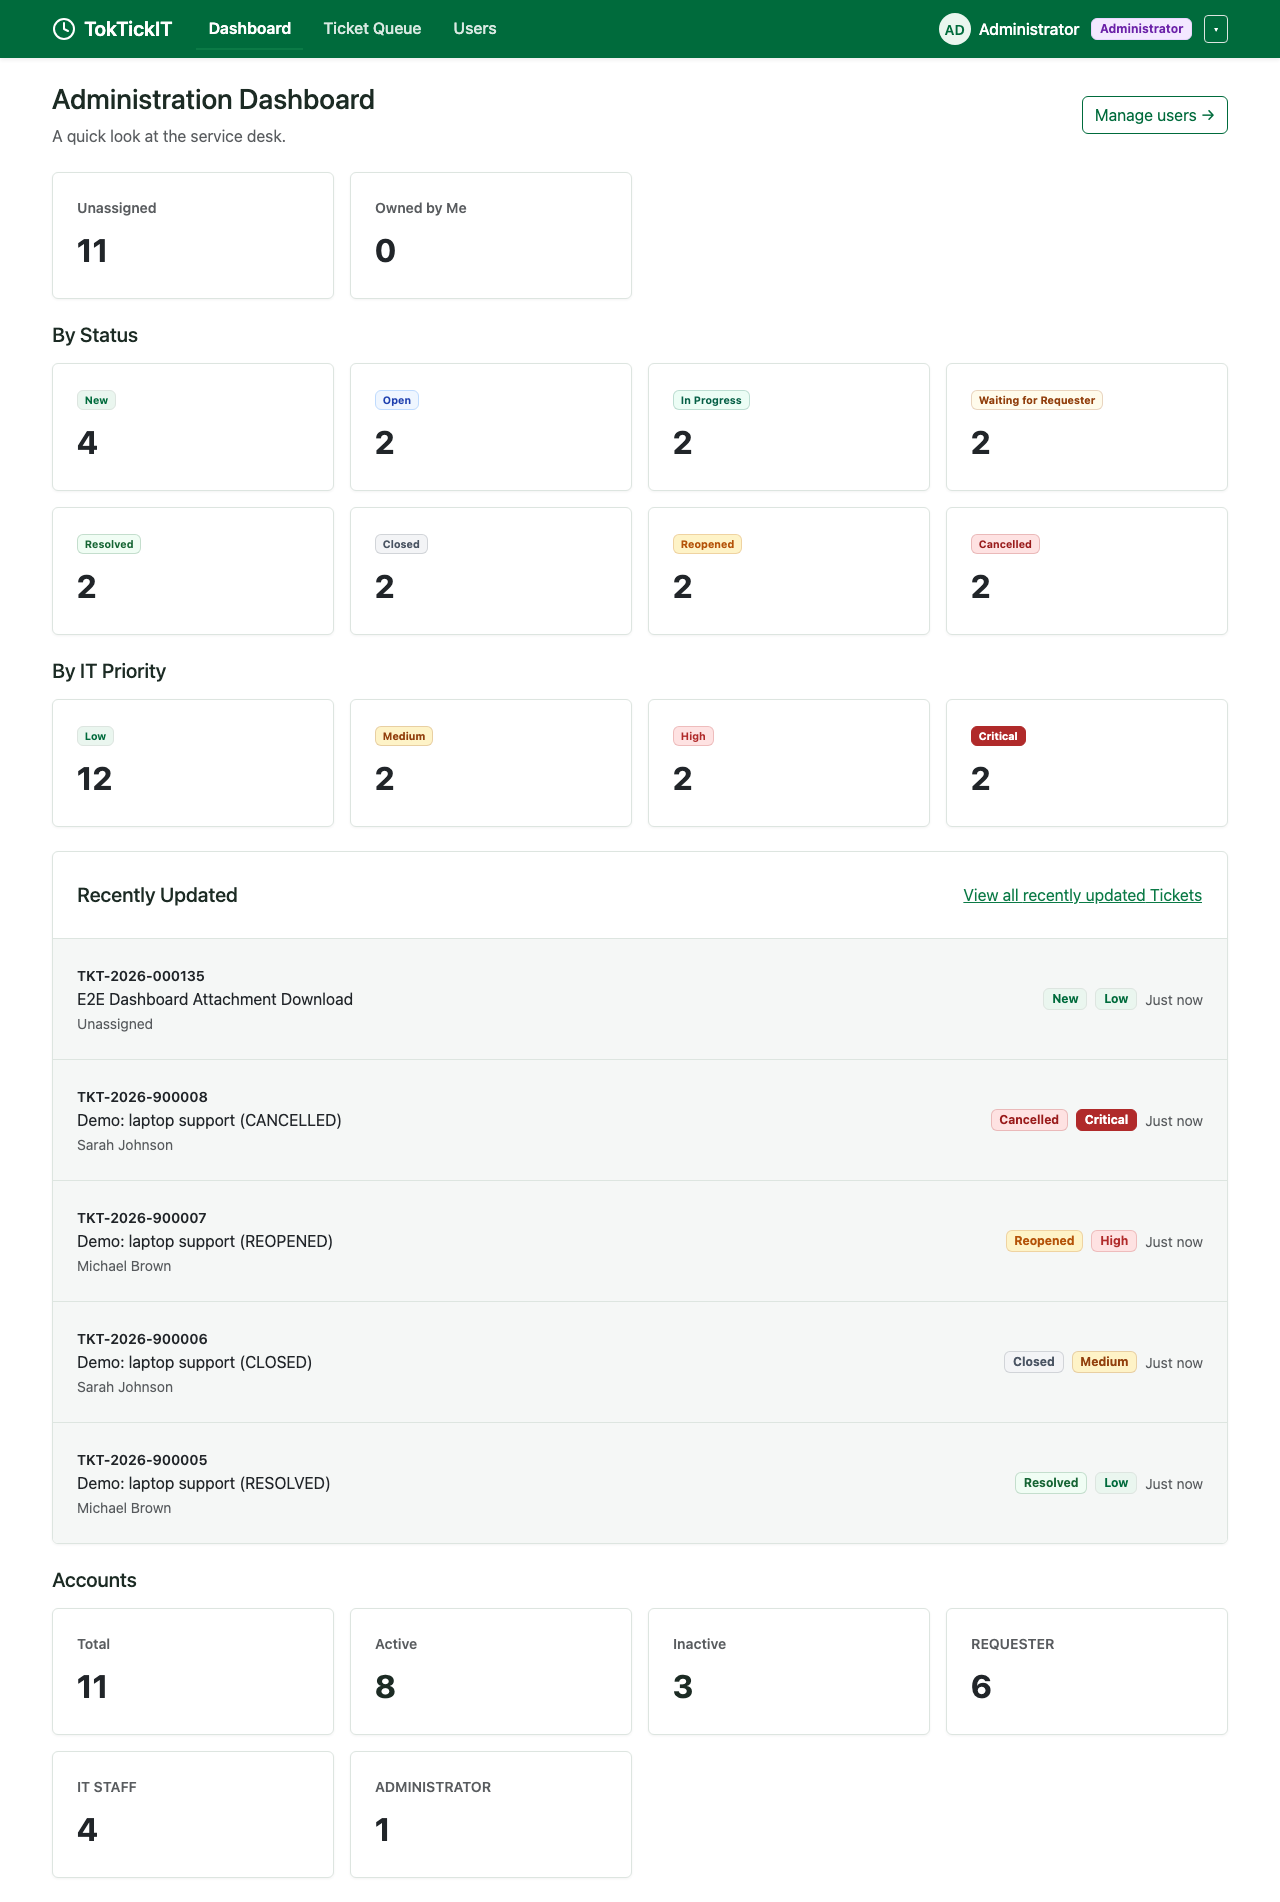
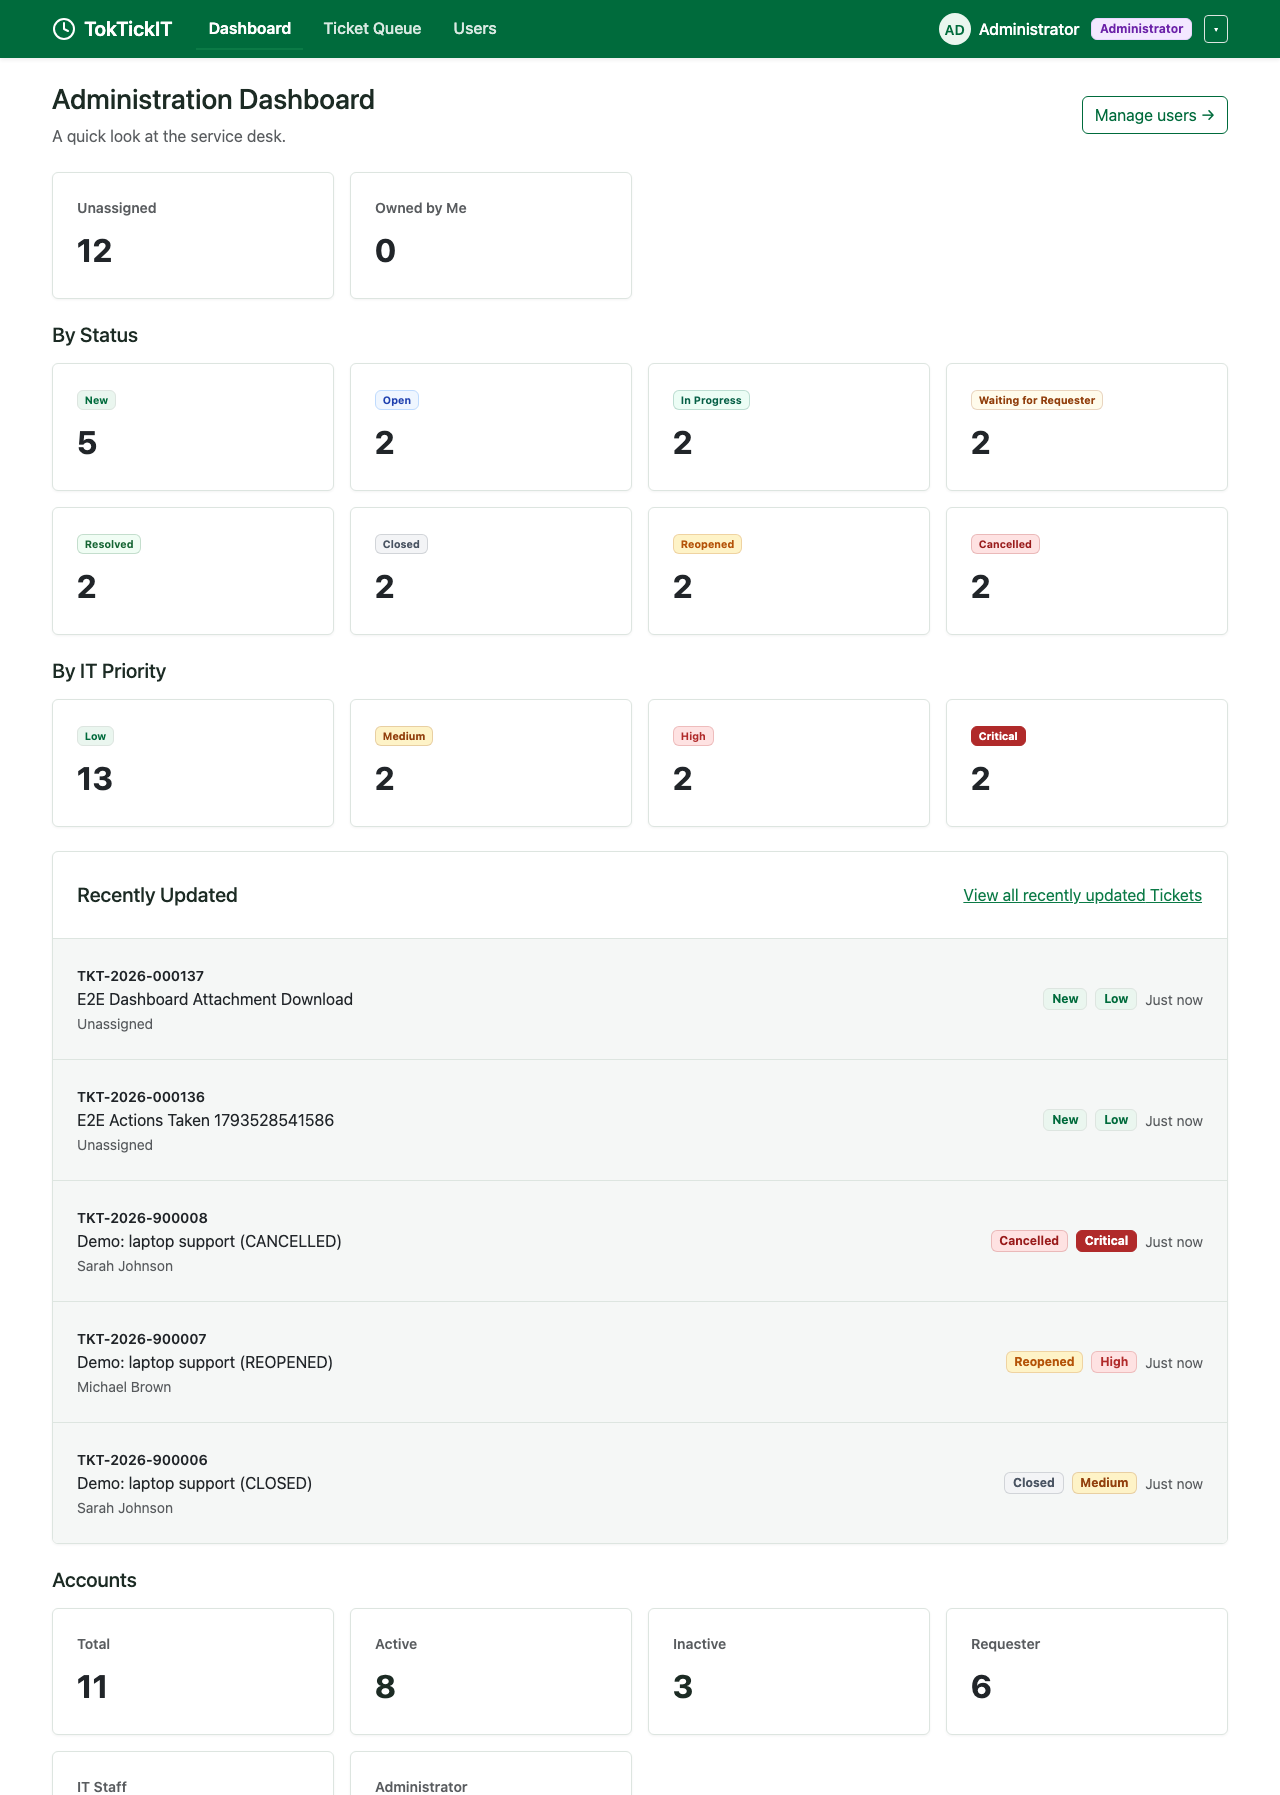
fix(dashboards): align Lab 4 login expectations (#54)

diff --git a/e2e/lab-04/ticket-resolution.spec.ts b/e2e/lab-04/ticket-resolution.spec.ts
@@ -6,7 +6,7 @@ test("E2E-02 — AC-08–AC-11, AC-23: creation, advisory resolution, conflict, 
   test.setTimeout(90_000);
   await page.setViewportSize({ width: 1280, height: 900 });
   await login(page, TEST_USERS.requester.email, TEST_USERS.requester.password);
-  await page.waitForURL("**/tickets");
+  await expect(page).toHaveURL(/\/dashboard$/);
   await page.goto("/tickets/new");
   await page.locator("#categoryId").selectOption({ index: 1 });
   await page.locator("#relatedSystemId").selectOption({ index: 1 });
@@ -28,7 +28,7 @@ test("E2E-02 — AC-08–AC-11, AC-23: creation, advisory resolution, conflict, 
   const admin = await adminContext.newPage();
   try {
     await login(admin, TEST_USERS.admin.email, TEST_USERS.admin.password);
-    await admin.waitForURL("**/admin/users");
+    await expect(admin).toHaveURL(/\/dashboard$/);
     await admin.getByRole("link", { name: "Ticket Queue", exact: true }).click();
     await expect(admin.getByRole("heading", { name: "Ticket Queue", exact: true })).toBeVisible();
     await admin.goto(`/staff/tickets/${ticket.id}`);
@@ -114,7 +114,7 @@ test("E2E-02 — AC-08–AC-11, AC-23: creation, advisory resolution, conflict, 
 
 test("E2E-02 — AC-23, ADR-0010: Staff assigns an owned Ticket to Administrator; Administrator takes over from Staff", async ({ page }) => {
   await login(page, TEST_USERS.requester.email, TEST_USERS.requester.password);
-  await page.waitForURL("**/tickets");
+  await expect(page).toHaveURL(/\/dashboard$/);
   const categories = await (await page.request.get("/api/categories")).json();
   const systems = await (await page.request.get("/api/related-systems")).json();
   const created = await page.request.post("/api/tickets", { data: {
@@ -126,7 +126,7 @@ test("E2E-02 — AC-23, ADR-0010: Staff assigns an owned Ticket to Administrator
   const ticket = await created.json();
   await logout(page);
   await login(page, TEST_USERS.staff.email, TEST_USERS.staff.password);
-  await page.waitForURL("**/staff/queue");
+  await expect(page).toHaveURL(/\/dashboard$/);
   await page.goto(`/staff/tickets/${ticket.id}`);
   await page.getByRole("button", { name: "Claim", exact: true }).click();
   const owner = page.getByRole("combobox", { name: "Ticket Owner" });
@@ -142,7 +142,7 @@ test("E2E-02 — AC-23, ADR-0010: Staff assigns an owned Ticket to Administrator
   await expect(owner).toBeEnabled();
   await logout(page);
   await login(page, TEST_USERS.admin.email, TEST_USERS.admin.password);
-  await page.waitForURL("**/admin/users");
+  await expect(page).toHaveURL(/\/dashboard$/);
   await page.goto(`/staff/tickets/${ticket.id}`);
   await expect(owner.locator("option:checked")).toHaveText(TEST_USERS.staff.name);
   await expect(page.getByRole("button", { name: "Claim", exact: true })).toHaveCount(0);

diff --git a/e2e/lab-04/actions-taken-flow.spec.ts b/e2e/lab-04/actions-taken-flow.spec.ts
@@ -5,7 +5,7 @@ test("E2E-01, RESP-01 — AC-01, AC-02, AC-03, AC-18, AC-19: staff records and e
   page,
 }) => {
   await login(page, TEST_USERS.requester.email, TEST_USERS.requester.password);
-  await page.waitForURL("**/tickets");
+  await expect(page).toHaveURL(/\/dashboard$/);
   const categories = await (await page.request.get("/api/categories")).json();
   const systems = await (await page.request.get("/api/related-systems")).json();
   const created = await page.request.post("/api/tickets", {
@@ -21,7 +21,7 @@ test("E2E-01, RESP-01 — AC-01, AC-02, AC-03, AC-18, AC-19: staff records and e
   const ticket = await created.json();
   await logout(page);
   await login(page, TEST_USERS.staff.email, TEST_USERS.staff.password);
-  await page.waitForURL("**/staff/queue");
+  await expect(page).toHaveURL(/\/dashboard$/);
   await page.goto(`/staff/tickets/${ticket.id}`);
   await page.getByRole("tab", { name: /Actions Taken/ }).click();
   await page.getByRole("button", { name: "Record Action" }).click();
@@ -154,7 +154,7 @@ test("E2E-01, RESP-01 — AC-01, AC-02, AC-03, AC-18, AC-19: staff records and e
   }
   await logout(page);
   await login(page, TEST_USERS.requester.email, TEST_USERS.requester.password);
-  await page.waitForURL("**/tickets");
+  await expect(page).toHaveURL(/\/dashboard$/);
   await page.goto(`/tickets/${ticket.id}`);
   const panel = page.getByRole("region", {
     name: "Actions Taken",

diff --git a/client/src/pages/Dashboard.tsx b/client/src/pages/Dashboard.tsx
@@ -6,10 +6,17 @@ import Badge from "../components/Badge";
 import { DashboardList } from "../components/DashboardList";
 import { MetricCard } from "../components/MetricCard";
 import StateBlock from "../components/StateBlock";
+import type { UserRole } from "../types/auth";
 import type {
   RequesterDashboardData,
   StaffDashboardData,
 } from "../types/dashboard";
+
+const ACCOUNT_ROLE_LABELS: Record<UserRole, string> = {
+  REQUESTER: "Requester",
+  IT_STAFF: "IT Staff",
+  ADMINISTRATOR: "Administrator",
+};
 
 export default function Dashboard() {
   const { user } = useAuth();
@@ -217,7 +224,7 @@ export default function Dashboard() {
                     ([accountRole, value]) => (
                       <MetricCard
                         key={accountRole}
-                        label={accountRole.replaceAll("_", " ")}
+                        label={ACCOUNT_ROLE_LABELS[accountRole as UserRole]}
                         value={value}
                         to={`/admin/users?role=${accountRole}`}
                       />

diff --git a/client/tests/lab-04/StaffDashboard.test.tsx b/client/tests/lab-04/StaffDashboard.test.tsx
@@ -154,8 +154,14 @@ describe("UI-01, UI-03, UI-10, UI-12 — AC-13, AC-14, AC-15, AC-17", () => {
     expect(
       screen.queryByRole("link", { name: /^Inactive,/ }),
     ).not.toBeInTheDocument();
+    expect(
+      screen.getByRole("link", { name: "IT Staff, 2, view list" }),
+    ).toHaveAttribute("href", "/admin/users?role=IT_STAFF");
+    expect(
+      screen.getByRole("link", { name: "Administrator, 1, view list" }),
+    ).toHaveAttribute("href", "/admin/users?role=ADMINISTRATOR");
     fireEvent.click(
-      screen.getByRole("link", { name: "REQUESTER, 6, view list" }),
+      screen.getByRole("link", { name: "Requester, 6, view list" }),
     );
     await waitFor(() =>
       expect(

diff --git a/e2e/lab-04/dashboards.spec.ts b/e2e/lab-04/dashboards.spec.ts
@@ -73,7 +73,7 @@ test("E2E-03 — AC-12–AC-16: role dashboards drill into filtered collections"
   expect(download.suggestedFilename()).toBe("dashboard-evidence.png");
   expect(await download.failure()).toBeNull();
   await page.goto("/dashboard");
-  await page.getByRole("link", { name: /^REQUESTER,/ }).click();
+  await page.getByRole("link", { name: /^Requester,/ }).click();
   await expect(page).toHaveURL(/admin\/users\?role=REQUESTER/);
   await expect(page.getByRole("combobox", { name: /role/i })).toHaveValue(
     "REQUESTER",

diff --git a/docs/lab-04/reviewer.md b/docs/lab-04/reviewer.md
@@ -158,3 +158,33 @@ Proposed reply (not posted):
 
 This record and draft do not constitute a GitHub reply or a new reviewer verdict.
 The human Changes Requested verdict remains pending human re-review.
+
+### feature/27-role-dashboards #60 — re-review on `abe67f7`
+
+[@fahsai-02's re-review, 2026-11-01](https://github.com/thrxpt/toktickit/pull/60#pullrequestreview-5727527291)
+confirmed the earlier findings resolved or rebutted and requested changes on R1.
+
+| Item | Fact-check and response |
+| --- | --- |
+| R1 — Lab 4 post-login waits | **VALID.** Reproduced E2E-01 timing out on `/tickets` after navigation to `/dashboard`. Updated all eight outdated Requester/Staff/Administrator waits in E2E-01 and both E2E-02 journeys to assert the FR-16 landing destination. The entire Lab 4 suite now passes, with existing behavioral assertions preserved. |
+| R2 — Development Requester retirement | **WITHDRAWN by reviewer.** `tests.md` §5 retains the complete retirement inventory for Issue 28. No retirement changes belong to this follow-up. |
+| N1 — Account label casing | **SUBJECTIVE / OPTIONAL NIT; adopted.** Account cards now show Requester, IT Staff, and Administrator, matching the existing loading captions. UI-12 checks all three labels and role URLs; the new assertion first failed against the uppercase captions. Updated E2E-03 and regenerated/inspected both dashboard screenshots. |
+| N2 — Dashboard fixture cleanup | **INCORRECT as a persistent-residue claim.** The existing setup/teardown hooks run `cleanup-e2e.ts`, whose `E2E ` prefix matches this fixture and deletes child rows before Tickets. Full-suite teardown deleted five Tickets and one Attachment; direct post-run queries confirmed zero E2E Tickets and zero Attachment rows. Screenshots capture the fixture before teardown. No additional cleanup is needed. |
+
+Verification: all four headless Chromium Lab 4 tests, ten focused dashboard client
+tests, eight UNIT-02 setup-probe cases, and `pnpm build` (root typecheck plus both
+packages) passed on the isolated `toktickit_test` database. Legacy E2E suites were
+not rerun. The earlier E2E-03-only verification missed R1; this full Lab 4 run
+closes that verification gap without claiming the all-lab release regression.
+
+Proposed reply (not posted):
+
+> R1 was valid: updated all eight outdated post-login waits to assert `/dashboard`.
+> All four Lab 4 Chromium tests now pass, along with ten dashboard client tests
+> and the production build/typecheck. Adopted N1's account-label casing and updated
+> screenshots. N2 is already covered by global teardown: the full run deleted all
+> five fixture Tickets and the attachment, with zero E2E Tickets/Attachments left.
+> The Issue 28 retirement inventory remains intact.
+
+This record is agent verification, not a posted reply or human approval. The
+Changes Requested verdict still requires human re-review.

diff --git a/docs/lab-04/tests.md b/docs/lab-04/tests.md
@@ -545,3 +545,27 @@ database's default read-committed isolation. A concurrent Ticket write can make 
 count and recent list reflect different committed moments. BR-21/FR-15 require
 backend-computed metrics, not a single point-in-time snapshot; no stronger isolation
 or new concurrency contract is introduced here.
+
+### Issue 27 re-review follow-up — #60 (R1)
+
+R1 reproduced before the fix: E2E-01 timed out waiting for `/tickets` after
+successful Requester login navigated to `/dashboard`. Updated all eight post-login
+waits in E2E-01 and both E2E-02 journeys to assert `/dashboard` for Requester,
+IT Staff, and Administrator, as required by FR-16 and ui-spec.md §3.1. All existing
+workflow, authorization, concurrency, and Actions Taken assertions remain intact.
+
+UI-12 now checks title-case account captions and unchanged per-role destinations
+for Requester, IT Staff, and Administrator (N1); the assertion failed before the
+caption fix. E2E-03 follows the updated Requester caption. Dashboard desktop/mobile
+screenshots were regenerated and visually inspected.
+
+Verification (2026-11-01, Node 24.18.0): the entire `CI=1 pnpm test:e2e:lab4`
+suite passed (four tests across all three files), ten focused dashboard client tests
+passed with `NODE_OPTIONS=--no-experimental-webstorage`, and `pnpm build` passed
+root typechecking and both package builds. The database setup probe also passed
+all eight UNIT-02 cases. Browser verification used the exported `server/.env.test`
+URL (`toktickit_test`), separate from development. Teardown deleted five E2E
+Tickets and their attachment; direct queries afterward found zero `E2E ` Tickets
+and zero Attachment rows (N2). The fixture appears in screenshots because they are
+taken during the journey, before teardown. No cleanup implementation change was
+needed. Legacy Lab 2/3 E2E suites were not rerun.

diff --git a/docs/lab-04/ai-use.md b/docs/lab-04/ai-use.md
@@ -268,3 +268,22 @@ Verification: 23 focused client tests, the production build/root typecheck, and
 isolated headless Chromium E2E-03 passed. Screenshot inspection and the UI detector
 found no new layout or mechanical issues. No GitHub reply was posted; the human
 Changes Requested verdict still requires human re-review.
+
+### Issue 27 re-review follow-up — #60 (R1)
+
+User prompt: "Check reviewer comment. If it's valid, you can fix."
+Checked @fahsai-02's re-review on `abe67f7` against the current contract and code.
+Reproduced the Requester login timeout in E2E-01, then updated all eight outdated
+post-login waits in E2E-01/E2E-02 to the shared `/dashboard` landing page. Existing
+journey assertions remain intact. Adopted the account-label casing suggestion;
+UI-12 failed first, then passed with title-case captions and unchanged role URLs.
+Updated E2E-03's caption locator and regenerated the two dashboard screenshots.
+
+All four Lab 4 Chromium journeys passed against the exported test-database URL,
+along with ten focused dashboard client tests, eight UNIT-02 setup-probe cases,
+and the production build/root typecheck. Visually inspected the dashboard evidence.
+The alleged fixture residue is already handled by existing teardown: five Tickets
+and one Attachment were deleted, and direct queries confirmed no E2E Tickets or
+Attachments remained. No cleanup code change was necessary. Legacy E2E was not
+rerun; Issue 28's retirement inventory remains intact. Recorded classifications
+and a draft reply in reviewer.md; no new GitHub reply or approval was posted.
